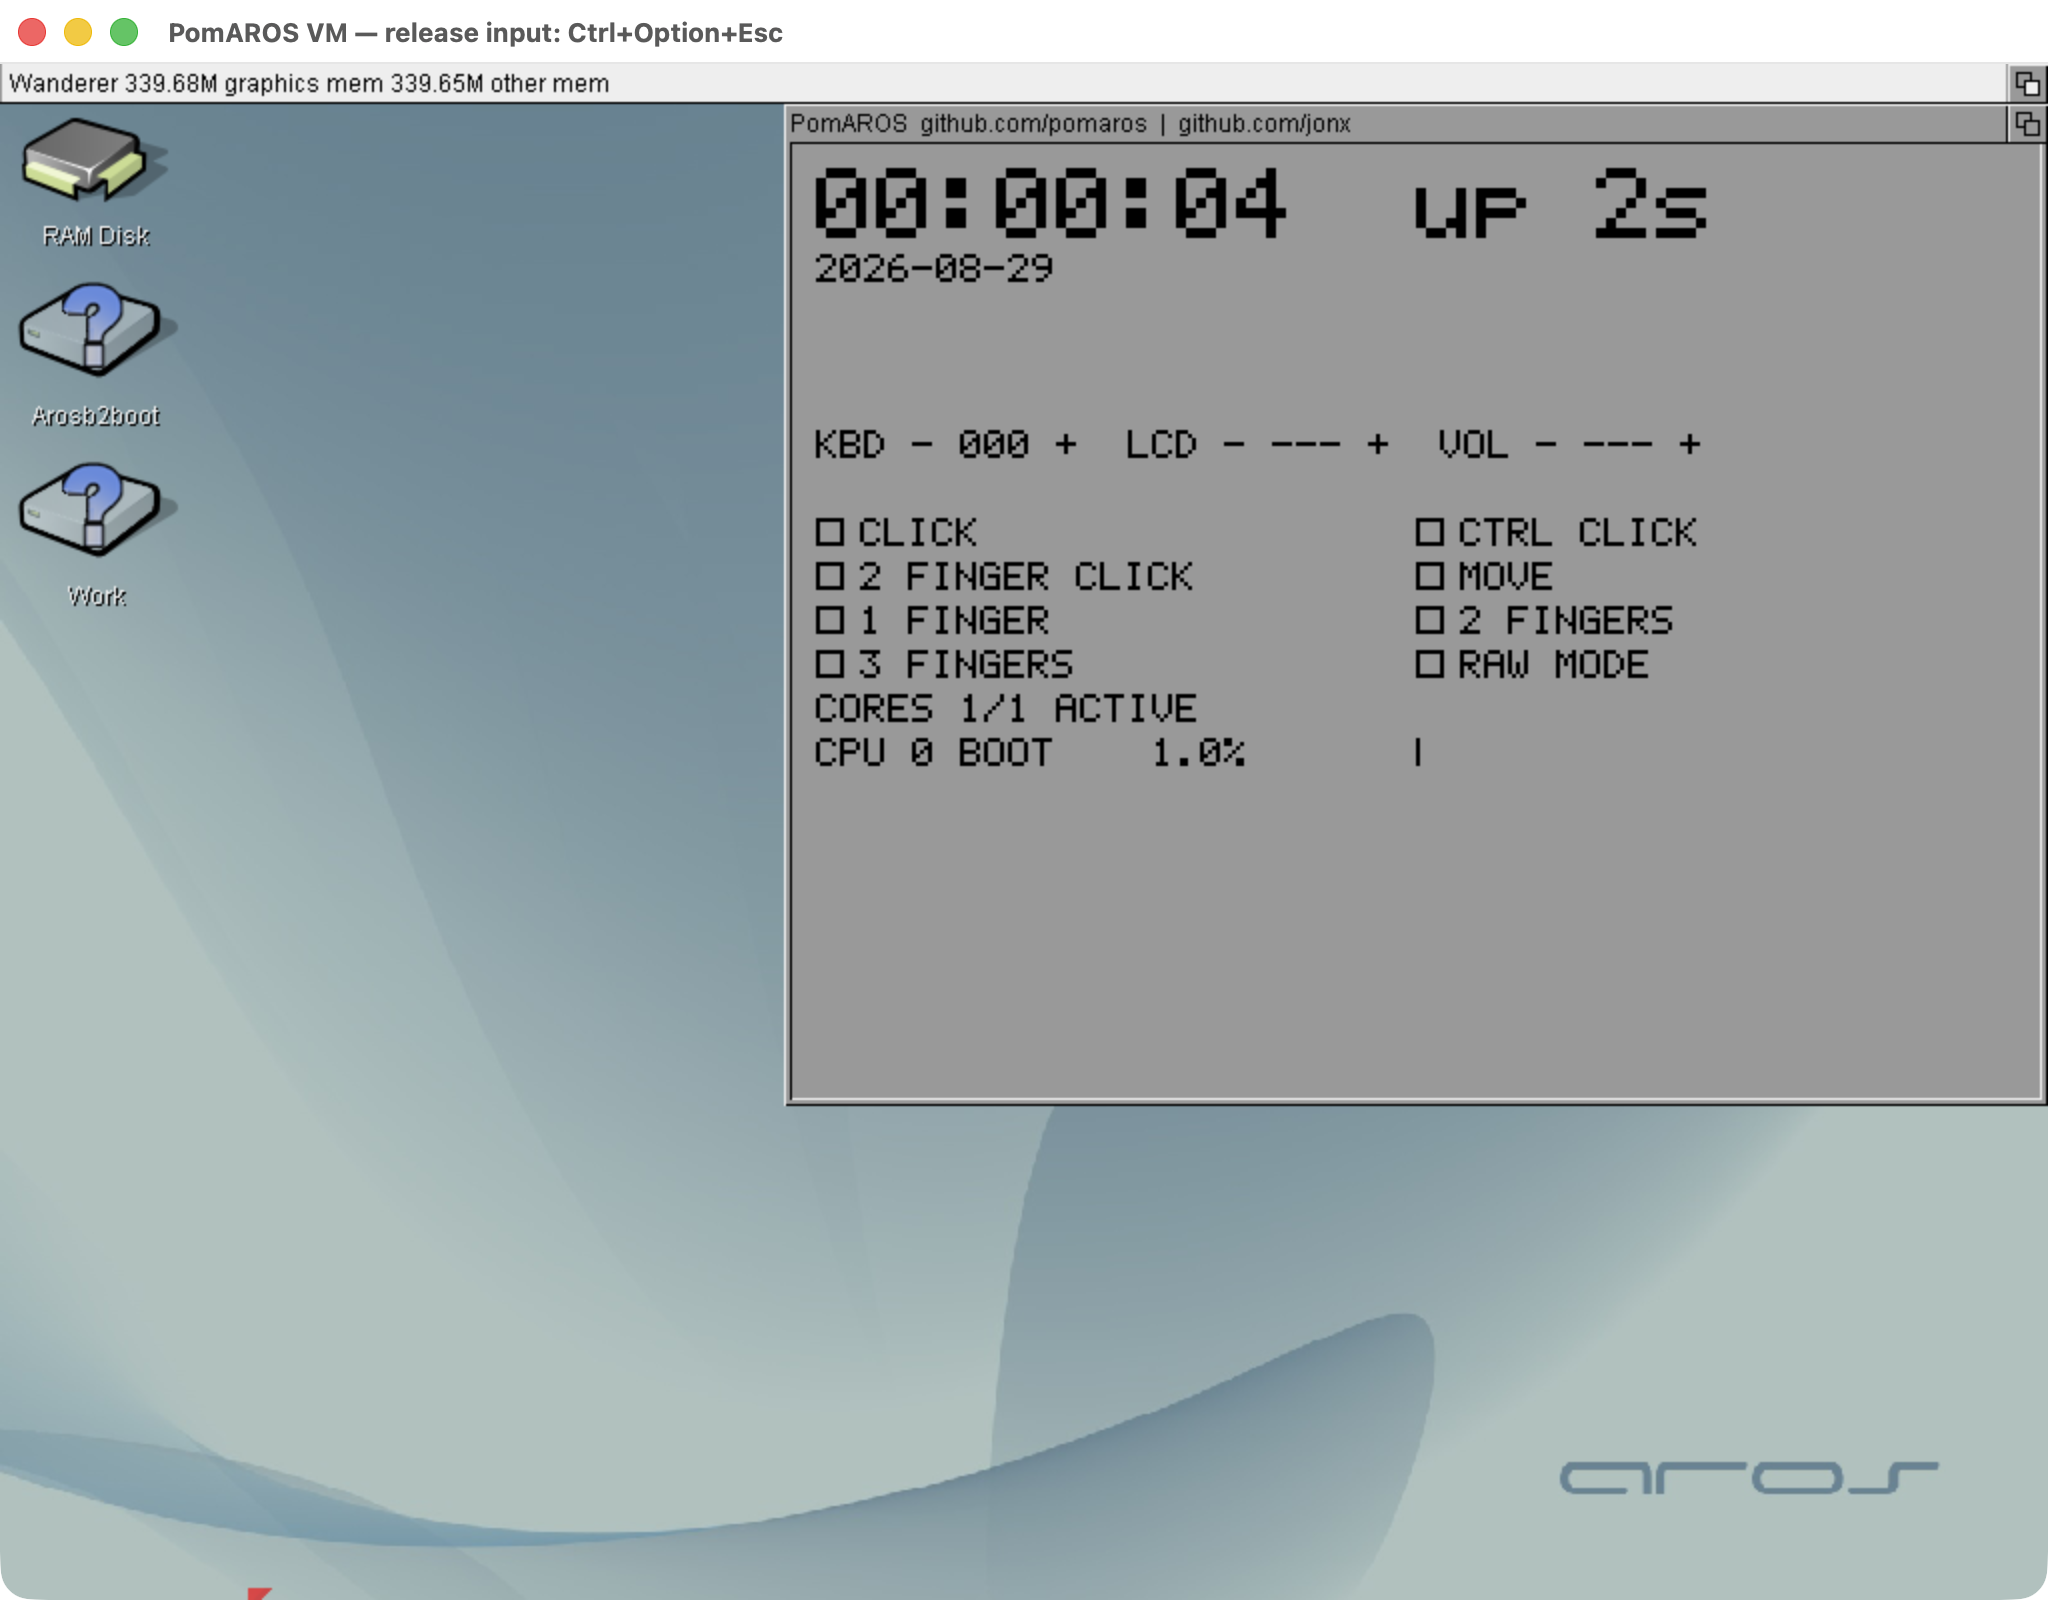
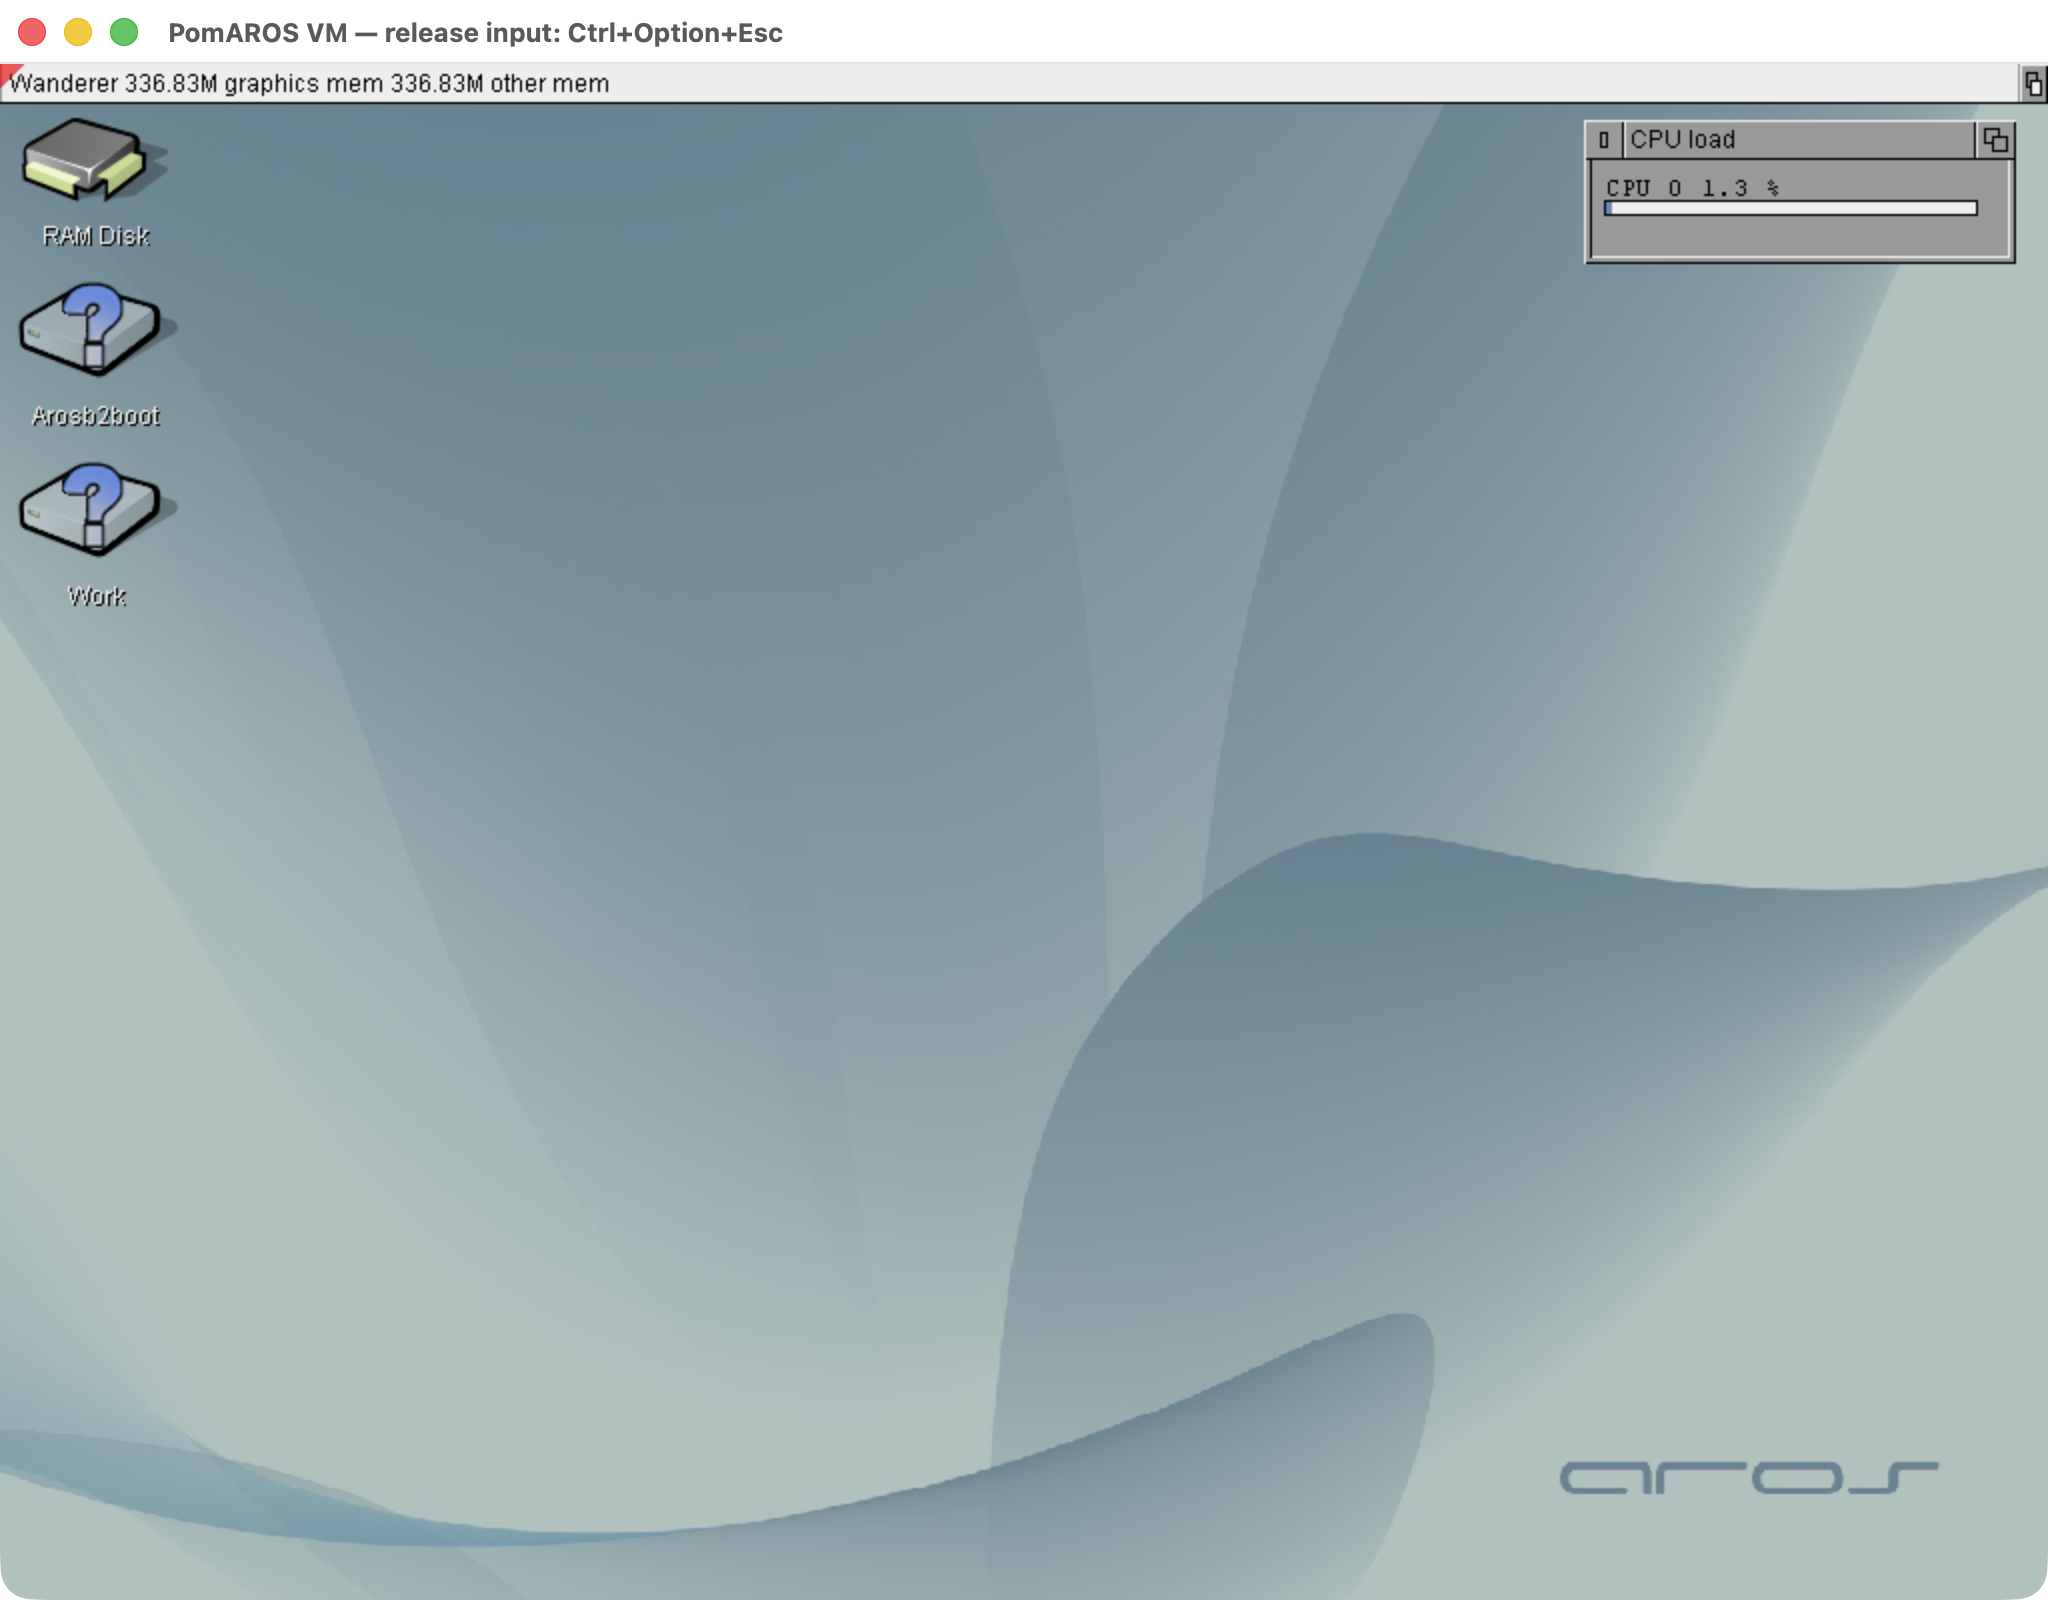
Record aligned-core VZ desktop and transport/filesystem qualification

Changed region(s): [[0.375, 0.0312, 1.0, 0.7188], [0.0, 0.0312, 0.0312, 0.0625]]

diff --git a/docs/STATUS.md b/docs/STATUS.md
@@ -12,10 +12,26 @@ of this guest profile.
 The first aligned-core VZ run reached desktop acceptance in 3.508 seconds and
 quiesced the volume on window close, but its checker timed out waiting for that
 obsolete marker. Its original failure remains in
-`artifacts/consolidation-aligned-vz-desktop/`. Corrected runtime qualification
-is separate; six desktop-contract tests pass, including eight readiness
-negative controls. VM and QEMU packages use the same configured guest objects;
-Hosted binaries remain a distinct ABI.
+`artifacts/consolidation-aligned-vz-desktop/`. The corrected strict checker
+passes in 11.25 seconds with a captured, nonuniform guest viewport, exact
+readiness counts, GPU completion, HID bindings, guest quiescence and unchanged
+seed. Evidence: `artifacts/consolidation-aligned-vz-desktop-strict-fixed/`.
+Eight desktop-contract tests refuse inconsistent readiness, invalid geometry
+and blank guest pixels even when the macOS title bar contains content. The
+window capture check does not claim QEMU's pixel-exact glyph/wallpaper oracle.
+An intermediate missing-import failure and the original timeout remain intact;
+three superseded runtime disk copies were retired after verified quiescence,
+with hashes in `artifacts/consolidation-redundant-vz-disks-retirement.json`.
+
+The matching-SDK stage6 run passes in 11.29 seconds: forced transport cut,
+held-session failure, reopen, file put/get, clipboard reconnection, MultiView
+JPEG pixels, capture and coordinated shutdown. Both persisted fixtures are
+readable with normal mtools; FAT copies agree, the clean-shutdown bit is set,
+and the seed is unchanged. Evidence: `artifacts/consolidation-aligned-vz-stage6/`.
+VM and QEMU packages consume the same configured guest objects at
+`../Build/pomaros-qemu/rust-aligned-core`; Hosted binaries remain a distinct ABI.
+The immutable app records its actual producer revision; later checker changes
+do not relabel that artifact.
 
 ## Common descriptor service in the default runtime
 
@@ -35,8 +51,9 @@ code and passes the corrected default-runtime desktop in 20.71 seconds, with
 QMP/LLDB ready before execution, live CPU samples and strict frame controls.
 The same image passes all six Rust socket-poll cases in 18.2 seconds under TCG
 with its guest debugger attached before execution. These are local QEMU
-qualifications; Virtualization.framework runtime qualification of this pin is
-pending. Older evidence below retains its original source identity.
+qualifications. The VZ desktop and stage6 qualifications above cover the same
+pin on Virtualization.framework. Application and physical native GPU acceptance
+are separate. Older evidence below retains its original source identity.
 
 ## Pre-export consolidation qualification
 

diff --git a/README.md b/README.md
@@ -6,9 +6,9 @@ QEMU.
 
 ![PomAROS VM running in its macOS window](docs/images/pomaros-vm.png)
 
-Actual windowed capture from an earlier development image. The public UP
-monitor retains the clock and CPU rows; the native hardware controls shown
-here are excluded. See [qualification and capture limits](docs/STATUS.md).
+Actual windowed capture of the qualified common-core guest with its public
+CPU widget. The CPU count belongs to the guest. See
+[qualification and capture limits](docs/STATUS.md).
 
 This project reuses the AROS kernel, UEFI loader and bundle tools.
 The existing hosted PomAROS remains in its own repository.
